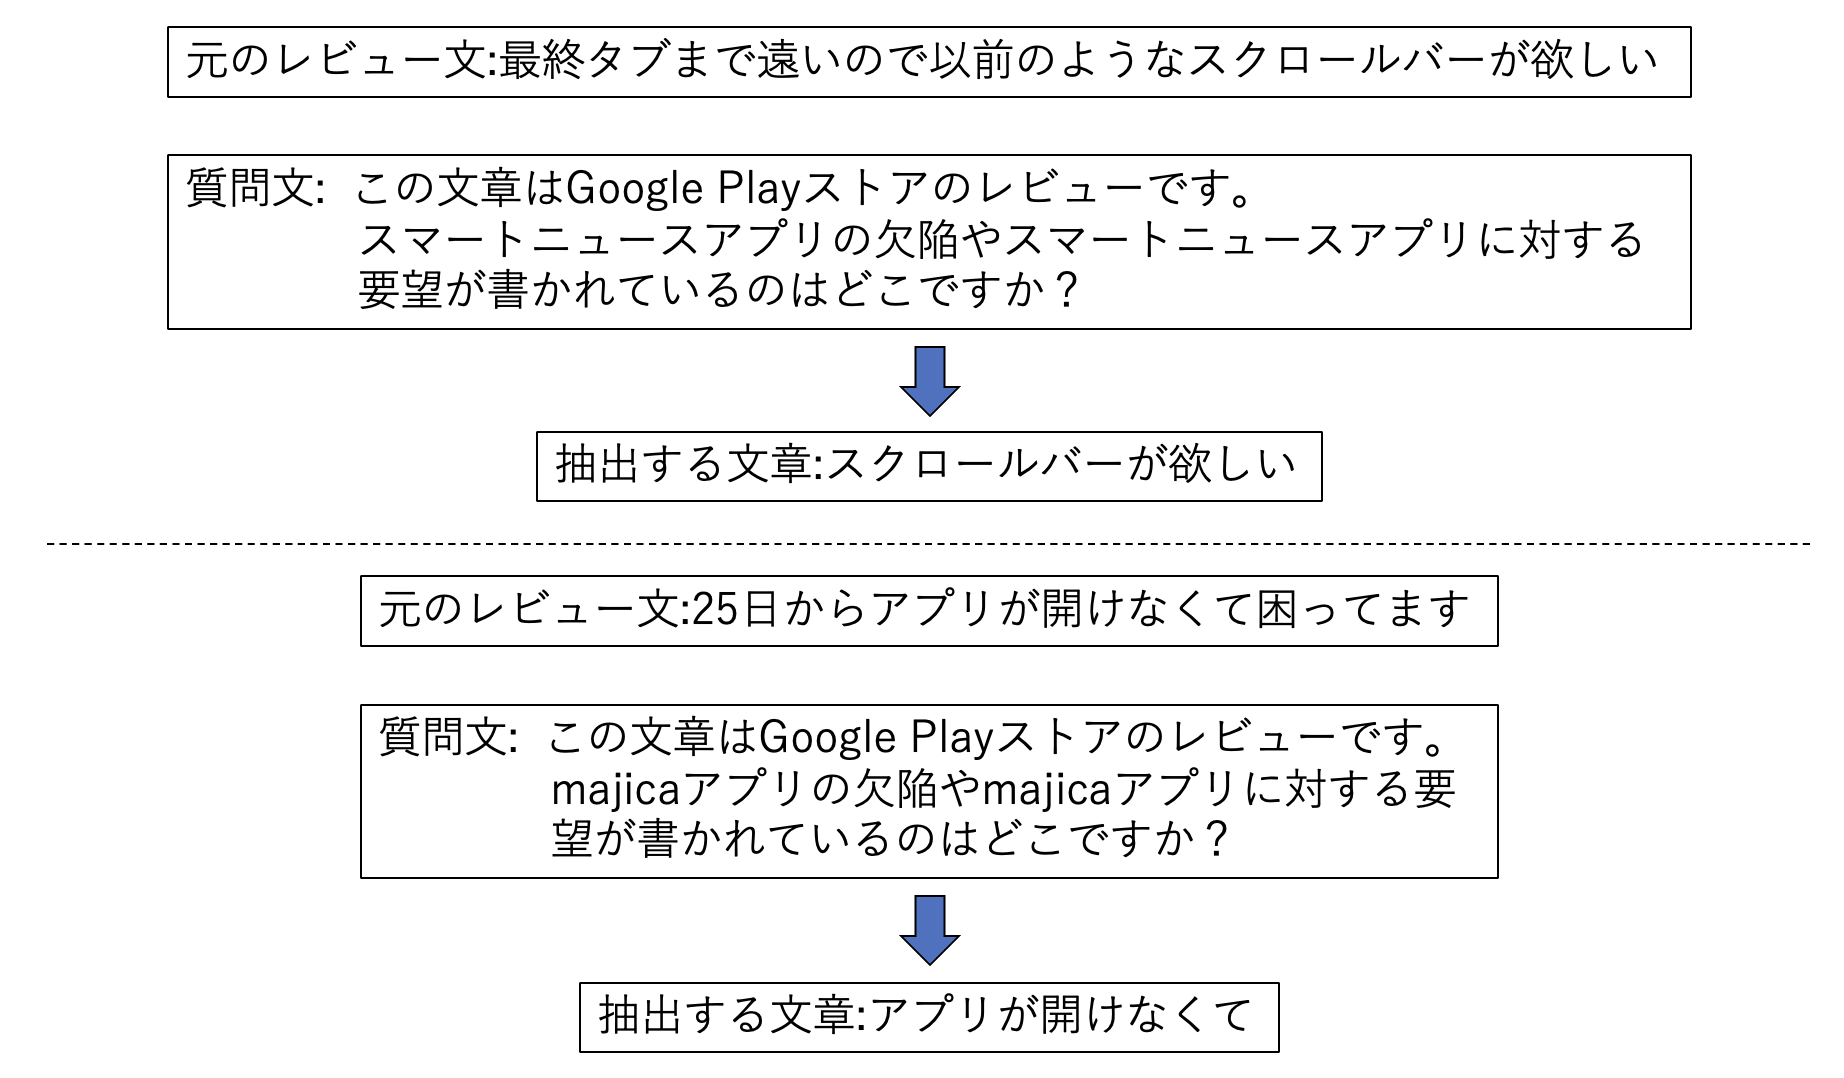
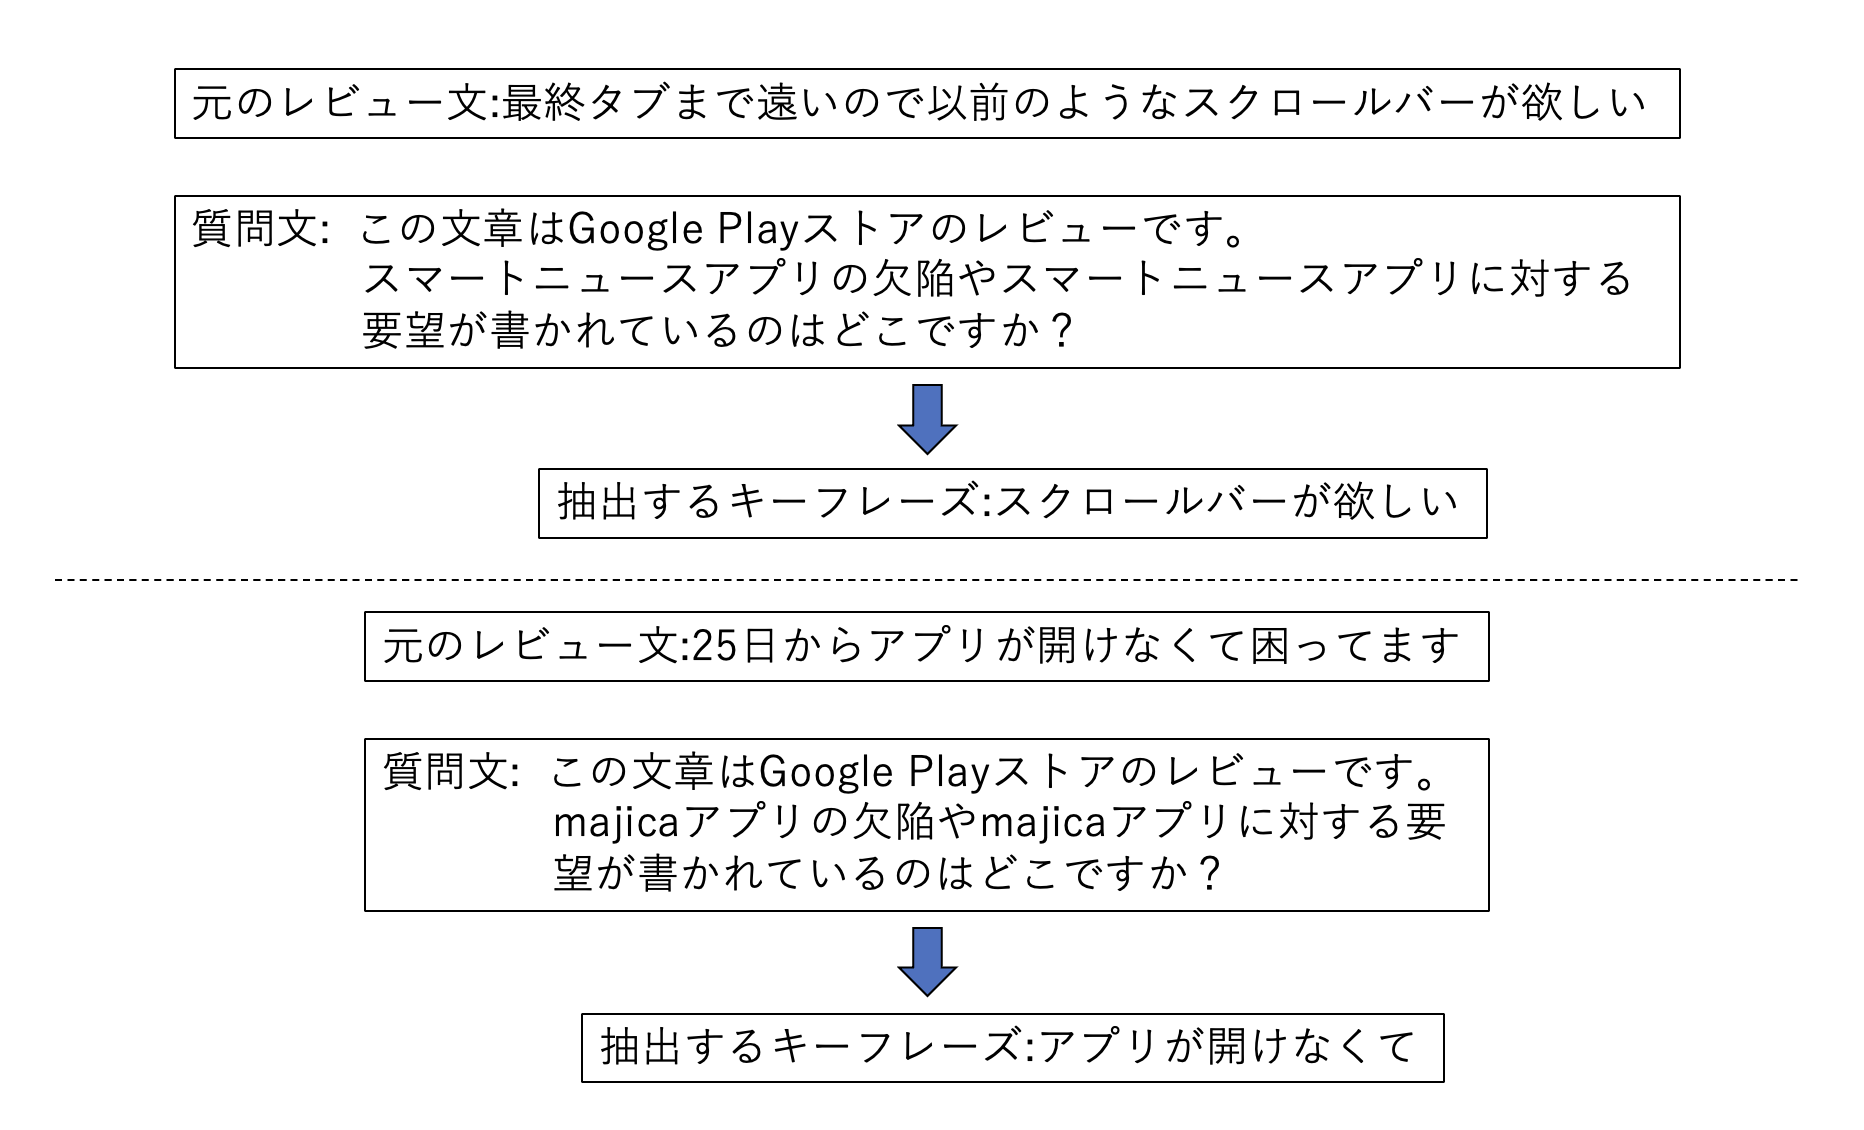
卒論の修正

diff --git a/visualization/review_app/templates/detail.html b/visualization/review_app/templates/detail.html
@@ -99,7 +99,7 @@
                     Plotly.newPlot('scatter', data, layout);
                 </script>
 
-                <h1>種類ごとのレビュー数 TOP10</h1>
+                <h1>クラスタごとのレビュー数 TOP10</h1>
                 <div id="bar"></div>
 
                 <script>
@@ -114,7 +114,7 @@
                     }];
                 
                     var layout = {
-                        title: '種類ごとのレビュー数',
+                        title: 'クラスタごとのレビュー数',
                         height: 600,
                         width: 1000,
                         xaxis: {

diff --git a/tex/contents/teian.tex b/tex/contents/teian.tex
@@ -4,7 +4,7 @@
 %ーーーーーーーーーーーーーーーーーーーーーーーーーーーー
 
 \section{概要}
-既存研究の多くはカテゴリやトピックを事前に定義した上で分類している. したがって, レビューの特徴に応じてトピックやカテゴリを変更することができないため, ``アプリの欠陥''や``開発者への要望''といった粒度の粗いクラスタリングとなってしまう. 
+既存研究の多くはカテゴリやトピックを事前に定義した上で分類している. したがって, レビューの特徴に応じてトピックやカテゴリを変更することができないため, ``アプリの欠陥''や``賞賛''といった粒度の粗いクラスタリングとなってしまう. 
 また, 既存研究の多くは, トピック分類やキーワード抽出を実行した結果を示すところまでしか提案されていない. したがって, マイニングによって得られた結果を利用して, 開発者やユーザを支援するようなツールは提案されていない. 
 
 したがって本論文では, レビューに含まれる開発に有用な情報 (アプリの欠陥やアプリに対する要望) を示す箇所 (以下 : キーフレーズ) のみを抽出し, キーフレーズを内容に応じてクラスタリングすることにより粒度の細かいクラスタリング手法を提案する. 
@@ -98,10 +98,10 @@
 \end{figure}
 \noindent
 図\ref{fig:fine-tuning}で示したファインチューニングには元のレビューとアプリの欠陥や要望を尋ねる質問文, 抽出したいキーフレーズの3つの情報を含めたQA用データセットが必要となる. データセットの詳細は\ref{dataset}項で後述する. 
-ファインチューニングを実行することで, QAデータセットを使用してモデルを学習させて, アプリの欠陥や要望を尋ねる質問に対して元のレビューからキーフレーズを抽出できるようにする. % キーフレーズはモデルの学習中における損失関数の計算に使用される. モデルはキーフレーズを抽出するように学習され, 損失が最小化されるようにパラメータが調整される. 
+QA用データセットを使用してファインチューニングを実行することで, アプリの欠陥や要望を尋ねる質問に対して元のレビューからキーフレーズを抽出するモデルを生成する. 
 抽出対象となる元のレビューの特徴をモデルに理解させるために質問文にその文章がGoogle PlayストアのレビューなのかTwitterのツイートなのかという``カテゴリー''の情報と``アプリ名''の情報を加えることにより学習性能を上げる. 
 
-図\ref{fig:answer}に質問文とその答えの例を示す. 質問文にアプリの欠陥やアプリに対する要望を尋ねる文章を与え, その答えとして抽出したキーフレーズを返すようにしている. 
+図\ref{fig:answer}に元のレビューと質問文, キーフレーズの組み合わせの例を示す. 質問文がアプリの欠陥やアプリに対する要望を尋ねる文章となっており, その答えが元のレビューから抽出するキーフレーズとなっている. 
 
 \begin{figure}[H]
   \centering
@@ -121,12 +121,12 @@
 \end{itemize}
 
 \subsection{クラスタリング手法}\label{graph_clustering}
-抽出したキーフレーズのクラスタリングにはChinese Whispers\cite{chinese-whispers}を使用したグラフクラスタリング手法を提案する. グラフ作成のために抽出したキーフレーズをSentence-BERTの日本語モデルによってベクトルに変換する. Sentence-BERT\cite{sentence-bert}とは, 事前学習されたBERTモデルとSiamese Networkを使い, 高品質な文ベクトルを作る手法である. 
+抽出したキーフレーズのクラスタリングにはChinese Whispers\cite{chinese-whispers}というグラフクラスタリング手法を使用する. グラフ作成のために抽出したキーフレーズをSentence-BERTの日本語モデルによってベクトルに変換する. Sentence-BERT\cite{sentence-bert}とは, 事前学習されたBERTモデルとSiamese Networkを使い, 高品質な文ベクトルを作る手法である. 
 したがって本研究でのクラスタリング手法は下記の手順である. 
 \begin{enumerate}
   \item Sentence-BERTの日本語モデルを用いて, 抽出した文章をベクトルに変換
   \item 重み付き無向グラフを構成し, 抽出したキーフレーズをノードとし, 2つのノード間のコサイン類似度スコアをノード間の重みとする. スコアがある閾値以上の場合, 2つのノード間にエッジを追加. この閾値は入力ハイパーパラメータであり, 抽出されたキーフレーズ間の意味的相関を測定するために使用される. 閾値が高いほどクラスタの結束力が高まる. 
-  \item このグラフに対して, Chinese Whispers (CW) を実行し, 抽出したキーフレーズをクラスタリング. 
+  \item このグラフに対して, Chinese Whispersを実行し, 抽出したキーフレーズをクラスタリング. 
 \end{enumerate}
 
 図\ref{fig:clustering}にクラスタリングの概略図を示す. 丸で示されているのが抽出されたキーフレーズを表すノードであり, 点線がエッジである. このエッジは設定された閾値によって変化する. 
@@ -158,4 +158,7 @@
   \item 日ごとのレビュー数を表す折れ線グラフ
   \item クラスタに含まれるレビュー数の上位10個を表す棒グラフ
 \end{itemize}
-この2つのグラフは検索結果に対応して変化するようになっている. 以上の機能を実装することで, 開発者がレビューを理解, 分析しやすいツールとなっている. 
+日ごとのレビュー数の推移を表す折れ線グラフによって, どの期間に多くレビューが投稿されたかをすぐに確認することができる. そのため, 開発者はその期間のレビューを集中的に確認, 分析することが可能となる. 
+また, クラスタに含まれるレビュー数の上位10個を表す棒グラフによって, そのアプリにはどのような種類のレビューが多く投稿されているのか, レビューの傾向などを理解しやすいようになっている. 
+そして, この2つのグラフは検索結果に対応して変化するようになっている. 
+レビューをクラスタごとに表示するだけでなく, 検索機能を実装しグラフを表示することで, 開発者がレビューを理解, 分析しやすいツールとなっている. 

diff --git a/tex/contents/result.tex b/tex/contents/result.tex
@@ -1,15 +1,16 @@
 \chapter{結論}
 \label{chap:keturon}
 
-本論文ではレビューやツイートに含まれるキーフレーズの自動抽出および粒度の細かいクラスタリング手法を提案する. そして, マイニングした結果をwebブラウザ上で表示することで開発者を支援する可視化ツールを提案する. 
-具体的には, レビューやツイートの中にあるアプリの欠陥やアプリに対する要望に関する情報を自動抽出してからその抽出した情報を意味に応じてクラスタリングする.  そして, マイニングして得られた結果を時系列やアプリごとにwebブラウザ上に出力する.
+　本論文ではレビューやツイートに含まれるキーフレーズの自動抽出および粒度の細かいクラスタリング手法を提案する. そして, マイニングした結果をwebブラウザ上で表示することで開発者を支援する可視化ツールを提案する. 
+具体的には, レビューやツイートの中にあるアプリの欠陥やアプリに対する要望に関するキーフレーズを自動抽出してからその抽出したキーフレーズを意味に応じてクラスタリングする.  そして, マイニングして得られた結果を時系列やアプリごとにwebブラウザ上に出力する.
 Google PlayストアだけでなくTwitterのデータも取得, 分析することによりアプリに対するユーザの幅広い情報を活用することができる. また, 抽出したキーフレーズを活用することで機能や内容などに応じた粒度の細かいクラスタリングをすることができる. 最後に得られた結果をグラフなどを用いてwebブラウザ上に表示することにより開発者がレビューを分析する効率を上げることができる. 
-3つのRQを通して, 自動抽出においてレビューから正確にキーフレーズを抽出する精度に関しては, ある程度の精度の高さは保証されているものの改善の余地が見られた. また, 他の手法と比較して本研究のクラスタリング手法の精度の高さが確認できた. そして, 可視化ツールの有用性を示すことができた. 
+
+3つのRQを通して, 本研究で作成した自動抽出モデルはレビューの中にキーフレーズがあるかどうかを判断する精度は高いものの, レビューから正確にキーフレーズを抽出する精度に関しては改善の余地が見られた. また, 他の手法と比較することで本研究のクラスタリング手法の精度の高さが確認できた. そして, 可視化ツールの有用性を示すことができた. 
 
 今後の課題として, 次を挙げる. 
 
 \begin{itemize}
-    \item 対象アプリを増やすことで提案手法がどのアプリのレビューに対しても有効であることを確認する
+    \item 対象アプリを増やすことで提案手法の一般性の高さを確認する
     \item App Storeに投稿されるレビューを分析対象に含めることでデータ数を増やす
     \item モデルのパラメータやデータセットの数を変更したときに抽出の精度がどのように変化するのかを検証する
     \item トレーニングデータの精度を改善することで抽出精度を向上させる. 自動抽出の精度を向上させることでクラスタリングの精度向上につながる

diff --git a/tex/contents/jyoron.tex b/tex/contents/jyoron.tex
@@ -40,7 +40,7 @@ X (旧Twitter) \cite{twitter}とは, アメリカのX社が運営しているSNS
 \section{本研究の目的}
 
 モバイルアプリのユーザレビューやツイートには, アプリに関する欠陥の報告やアプリに対する要望など開発者にとって有用な情報が多く存在する. しかし, レビューやツイートの数は膨大であり, 開発に有用な情報が埋もれてしまうことがある. 
-したがって本研究では, Google PlayストアとTwitterに存在するレビュー, ツイートに含まれる開発に有用な情報を自動で抽出し, 抽出した情報をもとにクラスタリングする手法を提案する. 本研究のクラスタリングは, 事前に定義されたトピックやカテゴリに分類するのではなく, ``欠陥の発生している機能ごと''や``アプリに要望している内容ごと''といった粒度の細かいものとなっている. 
+したがって本研究では, Google PlayストアとTwitterに存在するレビュー, ツイートに含まれる開発に有用な情報を自動で抽出し, 抽出した情報をもとにクラスタリングする手法を提案する. 本研究のクラスタリングの特徴として, 事前に定義されたトピックやカテゴリに分類するのではなく, ``欠陥の発生している機能ごと''や``アプリに要望している内容ごと''といった粒度の細かいクラスタリング手法であることが挙げられる. 
 そして, マイニング結果をwebブラウザ上で表示し可視化することにより開発者を支援するツールを提案する. 
 
 %ーーーーーーーーーーーーーーーーーーーーーーーーーーーー
@@ -62,7 +62,7 @@ X (旧Twitter) \cite{twitter}とは, アメリカのX社が運営しているSNS
 第\ref{chap:teian}章で提案する手法やツールの実装について述べる. 特にレビューに含まれる開発に有用な情報の自動抽出や抽出結果を元にしたクラスタリング, webブラウザ上で可視化するツールの実装について具体的に述べる. \\
 
 \item[第\ref{chap:kekkahyouka}章　評価]\mbox{}\\
-第\ref{chap:zisso}章で実装した手法およびツールの評価実験とその結果について述べる. 3つのResearch Questionをもとに結果を分析し, 考察する. 最後に妥当性の脅威について述べる. \\
+第\ref{chap:zisso}章で実装した手法およびツールの評価実験とその結果について述べる. 3つのResearch Questionsをもとに結果を分析し, 考察する. 最後に妥当性の脅威について述べる. \\
 
 \item[第\ref{chap:keturon}章　結論]\mbox{}\\
 本研究の結論と研究を行う中で発見された今後の課題について述べる. \\

diff --git a/tex/contents/kanrenkenkyuu.tex b/tex/contents/kanrenkenkyuu.tex
@@ -10,7 +10,7 @@
 近年, テキストをマイニングするための自動化技術 (トピック分類やキーワード抽出など)  をアプリレビューに応用する研究が進んでいる. これらの技術によって, 開発者がアプリレビューを理解・分析するために必要とする労力を軽減することに繋がっている. 
 次に示す研究は配信プラットフォームであるGoogle PlayストアやApp Storeから収集されたレビューを対象としている. 
 INFAR\cite{infar}はレビューから洞察を発見し, レビューを事前に定義されたトピックに分類したのちに要約を生成する手法である. 定義されるトピックはクラッシュやGUIなどとなっている. 
-Zhouら\cite{dsa}はアプリレビューの分類の精度を上げるためにフレームセマンティックを用いてアプリレビューに注釈をつけて自動分類するアプローチを提案している. フレームセマンティックとは様々な関係するフレーム要素の状況を記述する概略表現である. この自動分類ではレビューを``Bug report'', ``Feature Request'', ``Others''の3つに分類している. 
+Zhouら\cite{dsa}はアプリレビューの分類の精度を上げるためにフレームセマンティクスを用いてアプリレビューに注釈をつけて自動分類するアプローチを提案している. フレームセマンティクスとは様々な関係するフレーム要素の状況を記述する概略表現である. この自動分類ではレビューを``Bug report'', ``Feature Request'', ``Others''の3つに分類している. 
 また, SUR-Miner\cite{sur-miner}はレビューを表\ref{tb:categories}に示した5つのカテゴリに分類し, 依存関係解析やPart-of-Speechパターンなどの技術を使用して, アプリレビューからいくつかの側面を抽出する. そして最後に概要を可視化する. 
 これらの分類における課題として, 事前に定義されたカテゴリやトピックにしか分類することができないため, レビューの特徴に応じてトピックやカテゴリを変更することができない. また, 分類の粒度が粗いことも課題として挙げられる. 
 

diff --git a/tex/contents/kibangijyutu.tex b/tex/contents/kibangijyutu.tex
@@ -23,7 +23,7 @@
 入力された値と正解のラベルのセットを繰り返し学習させることで, 未知の入力された値に対して正解となるデータを予測し, 出力することが可能となっている. 
 教師あり学習の具体例には需要予測や株価予測, 画像認識などが挙げられる. 
 
-本論文の自動抽出ではこの教師あり学習を使用している. 元のレビューを入力, レビューから抽出するべきキーフレーズを出力として, 入力と出力の関係をモデルに学習させた.
+本論文の自動抽出ではこの教師あり学習を使用している. 元のレビューを入力, レビューから抽出するべき情報を出力として, 入力と出力の関係をモデルに学習させた.
 
 \subsection{教師なし学習}
 学習データに``正解''のラベルは付与せずに, データセットのパターンからデータの関係を認知させる学習手法である. 主に正解と不正解が明確でない問題の解決策として用いられる. 

diff --git a/tex/abstractContents.tex b/tex/abstractContents.tex
@@ -8,6 +8,6 @@
 そして, クラスタリング結果をwebブラウザ上で可視化することで, 開発者がレビューを閲覧, 分析しやすくするためのツールを実装した. 
 
 レビューの自動抽出の性能を評価した結果, レビューやツイートの中に開発に有用な情報があるかどうかを判断する精度は高いことが示された. 
-しかし, レビューやツイートの中にある有用な情報だけを抽出する精度に関しては, ある程度の高さが示されたものの, 改善の余地があることが確認された. 
+しかし, レビューやツイートの中にある有用な情報だけを正確に抽出する精度に関しては, ある程度の高さが示されたものの, 改善の余地があることが確認された. 
 クラスタリング性能に関しては, 他の手法と比較した結果, 本手法の精度の高さが確認された. 
 そして, 本論文で実装した可視化ツールが開発者にとって有用であることが確認できた. 
